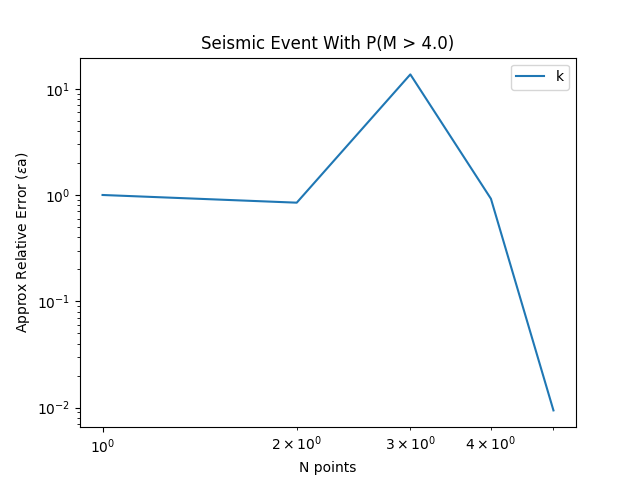
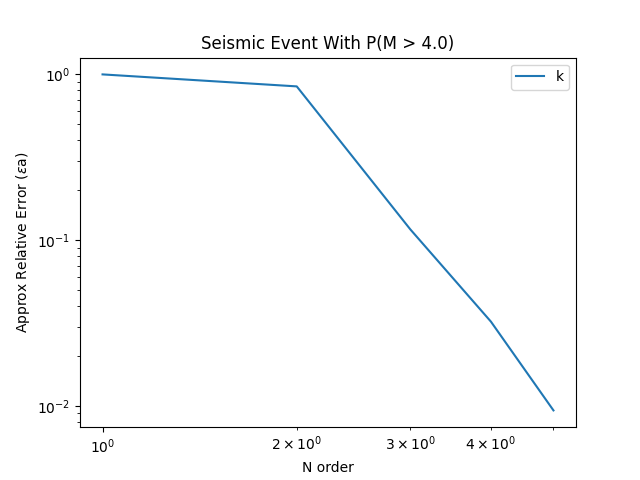
chaning one of the labels for the graphs

diff --git a/examples/driver_probability.py b/examples/driver_probability.py
@@ -10,7 +10,7 @@ def main():
     #Probability Approx Error
     plt.loglog(k1,eps1,label="k")
     plt.ylabel('Approx Relative Error ('+r'$\epsilon$'+'a)')
-    plt.xlabel('N points')
+    plt.xlabel('N order')
     plt.title('Seismic Event With P(M > 4.0)')
     plt.legend()
     plt.savefig('figures/probality_convergence.png')
@@ -23,7 +23,7 @@ def main():
     #Probability Approx Error
     plt.loglog(k2,eps2,label="k")
     plt.ylabel('Approx Relative Error ('+r'$\epsilon$'+'a)')
-    plt.xlabel('N points')
+    plt.xlabel('N order')
     plt.title('Probability for a measured distance L is between 10.25m and 10.35m')
     plt.legend()
     plt.savefig('figures/probality_convergence2.png')
